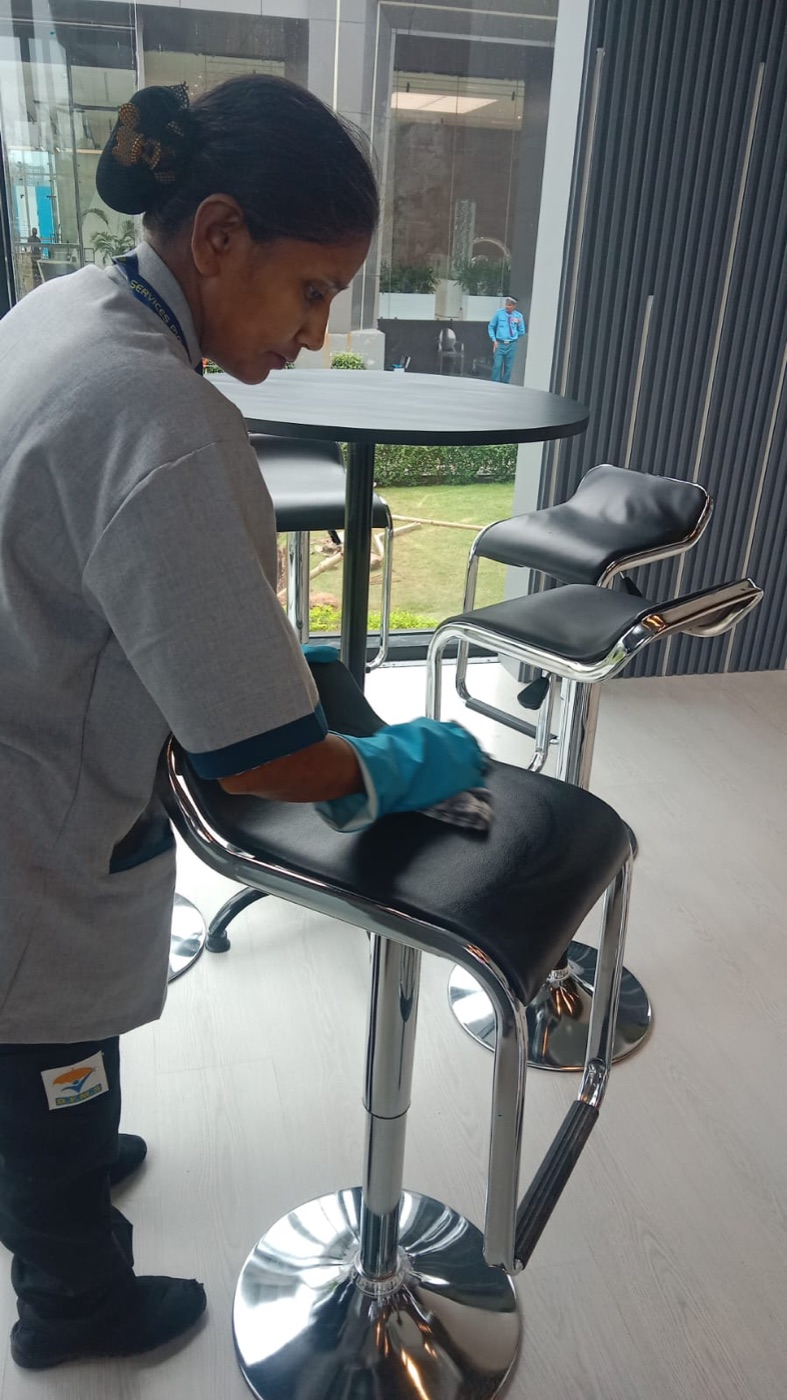
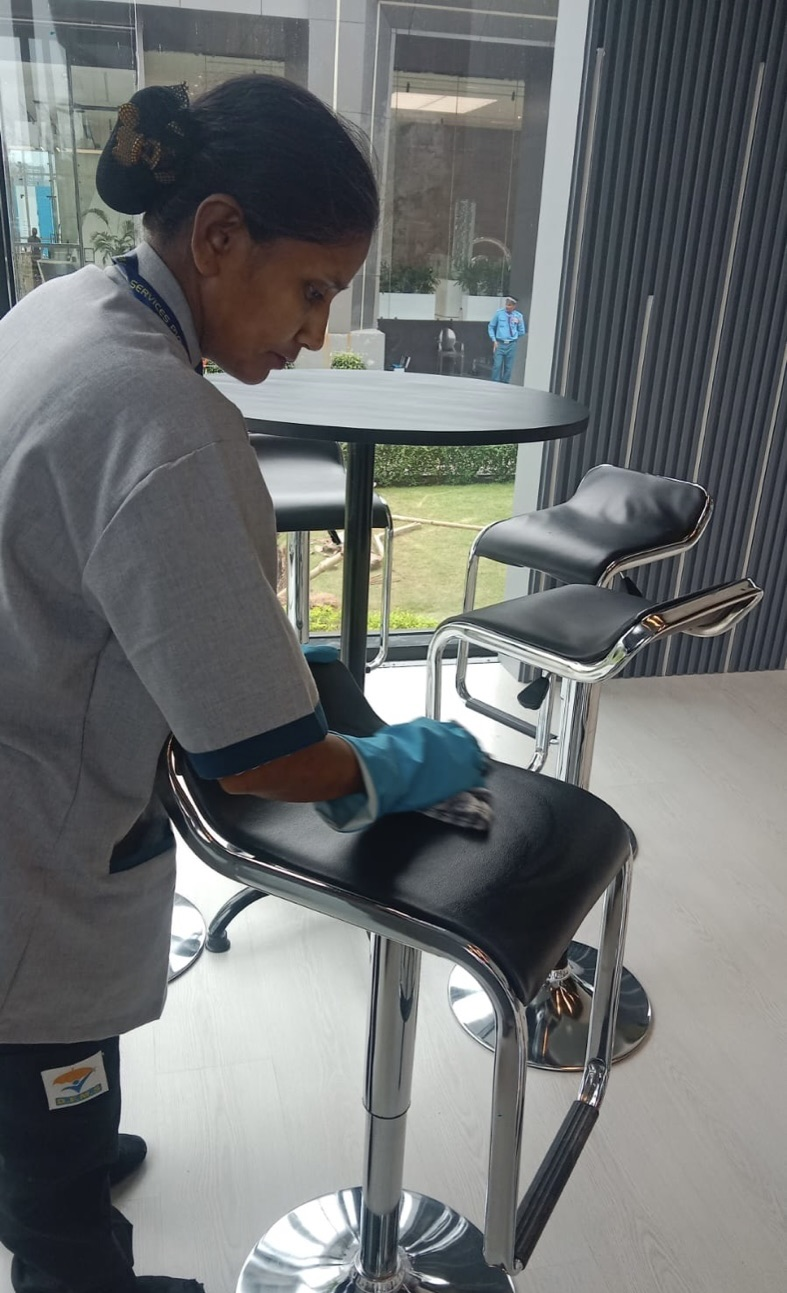
Fixing image

diff --git a/index.html b/index.html
@@ -120,7 +120,7 @@
         <a href="aboutus.html" class="btn btn-primary">Our Story</a>
       </div>
       <figure class="photo-frame reveal">
-        <img src="assets/images/dfms/web/dfms-08.jpeg" alt="DFMS technician operating industrial floor scrubber at a commercial property" loading="lazy" width="800" height="1000">
+        <img src="assets/images/dfms/web/dfms-08.jpg" alt="DFMS technician operating industrial floor scrubber at a commercial property" loading="lazy" width="800" height="1000">
       </figure>
     </div>
   </section>
@@ -196,7 +196,7 @@
         <p class="lead" style="margin-inline:auto">Authentic photographs from DFMS operations — staff, sites, and completed work across client properties.</p>
       </div>
       <div class="masonry" role="list">
-        <div class="masonry-item tall reveal" role="listitem" data-caption="Industrial floor scrubbing at commercial site" data-full="assets/images/dfms/web/dfms-08.jpeg"><img src="assets/images/dfms/web/dfms-08.jpg" alt="DFMS technician with industrial floor scrubber" loading="lazy"></div>
+        <div class="masonry-item tall reveal" role="listitem" data-caption="Industrial floor scrubbing at commercial site" data-full="assets/images/dfms/web/dfms-08.jpg"><img src="assets/images/dfms/web/dfms-08.jpg" alt="DFMS technician with industrial floor scrubber" loading="lazy"></div>
         <div class="masonry-item reveal" role="listitem" data-caption="Corporate lounge deep cleaning" data-full="assets/images/dfms/web/dfms-01.jpg"><img src="assets/images/dfms/web/dfms-01.jpg" alt="Housekeeping in corporate lounge" loading="lazy"></div>
         <div class="masonry-item tall reveal" role="listitem" data-caption="Pantry service professional" data-full="assets/images/dfms/web/dfms-09.jpg"><img src="assets/images/dfms/web/dfms-09.jpg" alt="DFMS pantry service staff" loading="lazy"></div>
         <div class="masonry-item reveal" role="listitem" data-caption="Floor mopping with safety signage" data-full="assets/images/dfms/web/dfms-03.jpg"><img src="assets/images/dfms/web/dfms-03.jpg" alt="Mopping with caution sign" loading="lazy"></div>